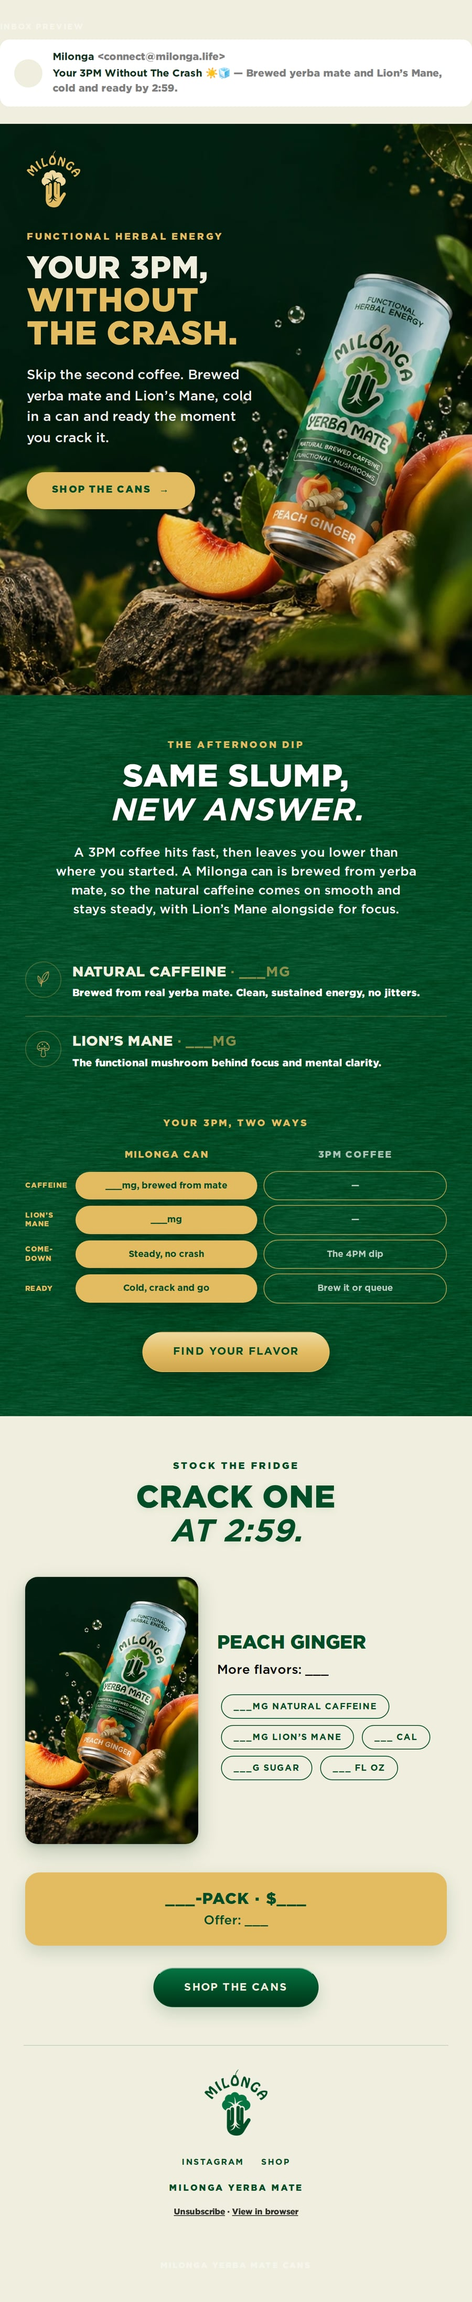
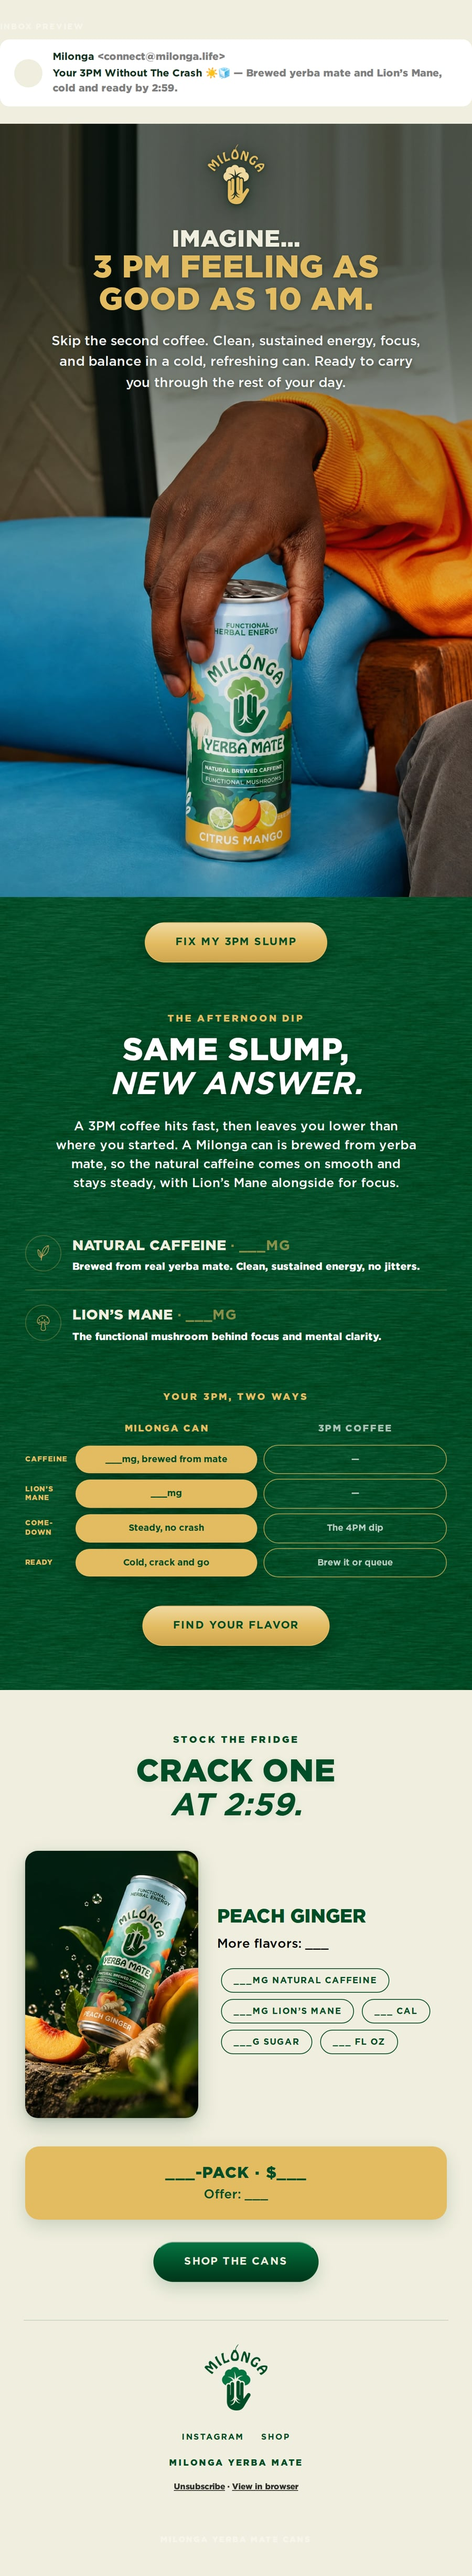
email: 3PM opener on the Citrus Mango can in hand
New copy (Imagine... 3 PM feeling as good as 10 AM.), wordmark centred,
the wall extended 440px up from the photo's own top rows to clear the
hand, top-weighted scrim with beige and gold type, and the button on a
band of the same forest paper as section 2.

Claude-Session: https://claude.ai/code/session_01NhEtXPnfeCJfN73SqBkUZ5

diff --git a/email-ds/emails/three-pm-cans.jsx b/email-ds/emails/three-pm-cans.jsx
@@ -25,53 +25,71 @@ const FONT = 'Gotham, Montserrat, sans-serif';
 const TBD = '___';
 
 const SECTION_1_ALT =
-  'Milonga. Functional herbal energy. Your 3PM, without the crash. Skip the ' +
-  'second coffee: brewed yerba mate and Lion’s Mane, cold in a can and ready the ' +
-  'moment you open it. A can of Milonga Yerba Mate in Peach Ginger rests on a ' +
-  'mossy stone beside a slice of peach and a knob of ginger, water droplets ' +
-  'catching the light against a deep green background. Shop the cans.';
+  'Milonga. Imagine… 3 PM feeling as good as 10 AM. Skip the second coffee. ' +
+  'Clean, sustained energy, focus, and balance in a cold, refreshing can. Ready ' +
+  'to carry you through the rest of your day. A hand in an orange sweatshirt ' +
+  'lifts an open can of Milonga Yerba Mate in Citrus Mango from a blue leather ' +
+  'armchair. Fix my 3PM slump.';
 
 function ThreePmCans() {
   return h(M.EmailShell, { bg: 'beige' },
 
     // ── 1 · THE OPENER ────────────────────────────────────────────────────
-    // The crop is taken from the foot of the family composite, where the
-    // backdrop is empty forest green on the left and the can, the peach and
-    // the ginger fill the right. That gives the type a dark, clear column of
-    // its own, so the ink is cream and gold and the scrim stays light.
+    // The Citrus Mango can in hand, on a blue armchair. Wordmark centred at
+    // the head, the title and its paragraph under it, the hand and the can
+    // left clear below.
     //
-    // Everything reads in one group at the head — wordmark, title, line,
-    // button — because the bottom-left of this picture is rock, and a button
-    // on a rock is a button nobody finds.
+    // THE WALL IS EXTENDED 440px UPWARD from the photograph's own top rows
+    // (can-citrus-mango-tall.jpg). In the original the hand starts 22% down,
+    // which left about 177 units above it for a block that needs 300; the
+    // door frame and the wall are vertical surfaces, so stretching their top
+    // edge reads as more of the same room rather than as a patch.
+    //
+    // THE TOP MEASURES MID-GREY — about 125 of 255 — which neither ink holds
+    // on. So the same answer the Golden Vanilla opener took: a scrim weighted
+    // to the top, beige and gold type, gold wordmark.
+    //
+    // THE BUTTON GOES UNDER THE PICTURE. The can stands at the bottom centre,
+    // so a centred pill at the foot of the frame lands on the product; on the
+    // forest band below it reads as the close of the opener and hands
+    // straight into the forest of section 2.
     h(M.T9Story, {
-      src: '../public/product/can-peach-ginger-hero.jpg',
+      src: '../public/product/can-citrus-mango-tall.jpg',
       alt: SECTION_1_ALT,
       logo: true,
       logoTone: 'gold',
-      logoHeight: 72,
-      logoAlign: 'left',
-      align: 'left',
-      eyebrow: 'Functional herbal energy',
-      line1: 'Your 3PM,',
-      line2: 'without\nthe crash.',
+      logoHeight: 76,
+      align: 'center',
+      line1: 'Imagine…',
+      line2: '3 PM feeling as\ngood as 10 AM.',
       line1Color: BEIGE,
       line2Color: GOLD,
-      paras: ['Skip the second coffee. Brewed yerba mate and Lion’s Mane, cold in a can and ready the moment you crack it.'],
-      cta: { label: 'Shop the cans', href: '#shop', arrow: true },
-      ctaInline: true,
-      ratio: 1328 / 1100,
-      size: 40,
-      size2: 42,
-      titleLead: 1.0,
-      top: 34,
+      paras: ['Skip the second coffee. Clean, sustained energy, focus, and balance in a cold, refreshing can. Ready to carry you through the rest of your day.'],
+      ratio: 2440 / 1493,
+      size: 30,
+      size2: 40,
+      titleLead: 1.02,
+      top: 26,
       padLeft: 34,
-      padRight: 262,
-      measure: 300,
+      padRight: 34,
+      measure: 470,
       ink: 'light',
-      scrim: 0.25,
+      scrim: 0.62,
       scrimAt: 'top',
       halo: 'soft',
     }),
+
+    // The opener's button, on its own band of the same forest paper as
+    // section 2, so the grain runs unbroken from the button into the next
+    // act. T9's built-in ctaBelow band is a flat fill and left a visible
+    // edge against the texture.
+    h('div', { style: {
+      backgroundColor: FOREST,
+      backgroundImage: 'url(../public/brand/textures/tile-paper-forest.jpg)',
+      backgroundSize: '320px 320px',
+      padding: '32px 32px 8px', textAlign: 'center' } },
+      h(M.Button, { label: 'Fix my 3PM slump', href: '#shop', bg: 'forest', size: 'lg' }),
+    ),
 
     // ── 2 · THE SLUMP, AND WHAT CHANGES IT ───────────────────────────────
     // The education act inverts the page: the forest paper grain from the
